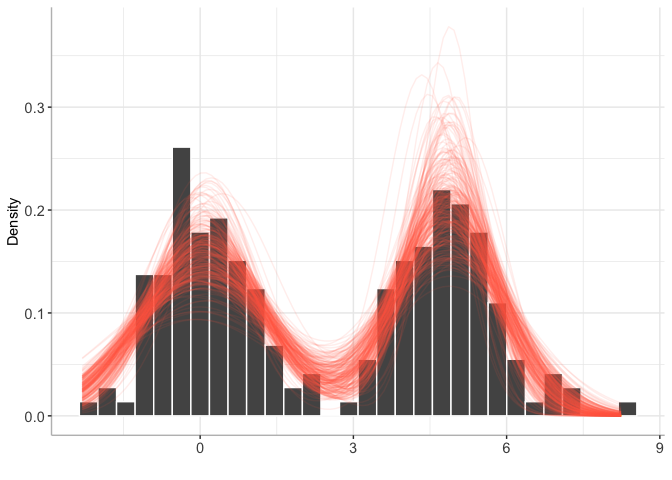
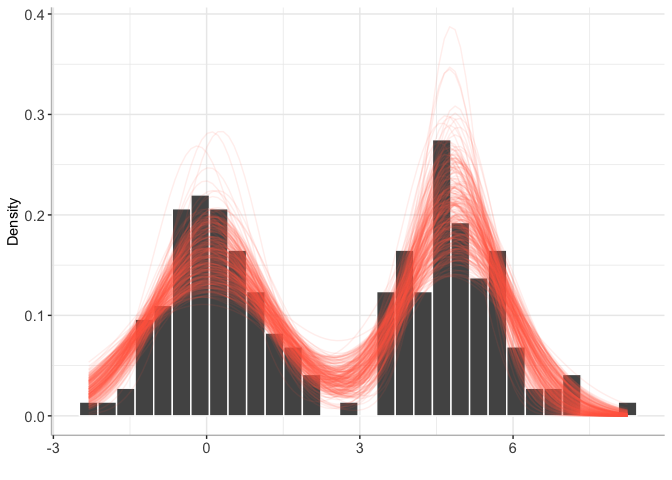
updated readme

diff --git a/README.md b/README.md
@@ -29,7 +29,7 @@ install.packages("BayesMultiMode")
 ### Or installing the development version from GitHub
 
 ``` r
-# install.packages("devtools") # if devtools is not installed 
+# install.packages("devtools") # if devtools is not installed
 devtools::install_github("paullabonne/BayesMultiMode")
 ```
 
@@ -43,9 +43,9 @@ library(BayesMultiMode)
 
 `BayesMultiMode` provides a very flexible and efficient MCMC estimation
 approach : it handles mixtures with unknown number of components through
-the sparse finite mixture approach of Malsiner-Walli,
-Fruhwirth-Schnatter, and Grun (2016) and supports a comprehensive range
-of mixture distributions, both continuous and discrete.
+the sparse finite mixture approach of Malsiner-Walli et al. (2016) and
+supports a comprehensive range of mixture distributions, both continuous
+and discrete.
 
 #### Estimation
 
@@ -53,55 +53,59 @@ of mixture distributions, both continuous and discrete.
 set.seed(123)
 
 # retrieve galaxy data
-y = galaxy
+y <- galaxy
 
 # estimation
-bayesmix = bayes_fit(data = y,
-                     K = 10,
-                     dist = "normal",
-                     nb_iter = 2000,
-                     burnin = 1000,
-                     print = F)
+bayesmix <- bayes_fit(
+  data = y,
+  K = 10,
+  dist = "normal",
+  nb_iter = 2000,
+  burnin = 1000,
+  print = F
+)
 
 plot(bayesmix, draws = 200)
 ```
 
-<img src="man/figures/README-unnamed-chunk-5-1.png" width="70%" style="display: block; margin: auto;" />
+<img src="man/figures/README-unnamed-chunk-5-1.png" alt="" width="70%" style="display: block; margin: auto;" />
 
 #### Mode inference
 
 ``` r
 # mode estimation
-bayesmode = bayes_mode(bayesmix)
+bayesmode <- bayes_mode(bayesmix)
 
 plot(bayesmode)
 ```
 
-<img src="man/figures/README-unnamed-chunk-6-1.png" width="70%" style="display: block; margin: auto;" />
+<img src="man/figures/README-unnamed-chunk-6-1.png" alt="" width="70%" style="display: block; margin: auto;" />
 
 ``` r
 summary(bayesmode)
 ```
 
-    ## Posterior probability of multimodality is 0.993 
+    ## The posterior probability of multimodality is 0.988 
+    ## 
+    ##  The most likely number of modes is 3 
     ## 
     ## Inference results on the number of modes:
     ##   p_nb_modes (matrix, dim 4x2): 
     ##      number of modes posterior probability
-    ## [1,]               1                 0.007
-    ## [2,]               2                 0.133
-    ## [3,]               3                 0.840
-    ## [4,]               4                 0.020
+    ## [1,]               1                 0.012
+    ## [2,]               2                 0.149
+    ## [3,]               3                 0.818
+    ## [4,]               4                 0.021
     ## 
     ## Inference results on mode locations:
     ##   p_loc (matrix, dim 252x2): 
     ##      mode location posterior probability
-    ## [1,]           9.2                 0.021
+    ## [1,]           9.2                 0.028
     ## [2,]           9.3                 0.000
     ## [3,]           9.4                 0.000
-    ## [4,]           9.5                 0.083
-    ## [5,]           9.6                 0.132
-    ## [6,]           9.7                 0.117
+    ## [4,]           9.5                 0.089
+    ## [5,]           9.6                 0.114
+    ## [6,]           9.7                 0.108
     ## ... (246 more rows)
 
 ### BayesMultiMode for mode inference with external MCMC output
@@ -118,52 +122,61 @@ examples can be found
 library(BNPmix)
 library(dplyr)
 
-y = cyclone %>%
-  filter(BASIN == "SI",
-         SEASON > "1981") %>%
+y <- cyclone %>%
+  filter(
+    BASIN == "SI",
+    SEASON > "1981"
+  ) %>%
   dplyr::select(max_wind) %>%
   unlist()
 
 ## estimation
-PY_result = PYdensity(y,
-                      mcmc = list(niter = 2000,
-                                  nburn = 1000,
-                                  print_message = FALSE),
-                      output = list(out_param = TRUE))
+PY_result <- PYdensity(y,
+  mcmc = list(
+    niter = 2000,
+    nburn = 1000,
+    print_message = FALSE
+  ),
+  output = list(out_param = TRUE)
+)
 ```
 
 #### Transforming the output into a mcmc matrix with one column per variable
 
 ``` r
-mcmc_py = list()
+mcmc_py <- list()
 
 for (i in 1:length(PY_result$p)) {
-  k = length(PY_result$p[[i]][, 1])
-  
-  draw = c(PY_result$p[[i]][, 1],
-           PY_result$mean[[i]][, 1],
-           sqrt(PY_result$sigma2[[i]][, 1]),
-           i)
-  
-  names(draw)[1:k] = paste0("eta", 1:k)
-  names(draw)[(k+1):(2*k)] = paste0("mu", 1:k)
-  names(draw)[(2*k+1):(3*k)] = paste0("sigma", 1:k)
-  names(draw)[3*k + 1] = "draw"
-  
-  mcmc_py[[i]] = draw
+  k <- length(PY_result$p[[i]][, 1])
+
+  draw <- c(
+    PY_result$p[[i]][, 1],
+    PY_result$mean[[i]][, 1],
+    sqrt(PY_result$sigma2[[i]][, 1]),
+    i
+  )
+
+  names(draw)[1:k] <- paste0("eta", 1:k)
+  names(draw)[(k + 1):(2 * k)] <- paste0("mu", 1:k)
+  names(draw)[(2 * k + 1):(3 * k)] <- paste0("sigma", 1:k)
+  names(draw)[3 * k + 1] <- "draw"
+
+  mcmc_py[[i]] <- draw
 }
 
-mcmc_py = as.matrix(bind_rows(mcmc_py))
+mcmc_py <- as.matrix(bind_rows(mcmc_py))
 ```
 
 #### Creating an object of class `bayes_mixture`
 
 ``` r
-py_BayesMix = bayes_mixture(mcmc = mcmc_py,
-                            data = y,
-                            burnin = 0, # the burnin has already been discarded
-                            dist = "normal",
-                            vars_to_keep = c("eta", "mu", "sigma"))
+py_BayesMix <- bayes_mixture(
+  mcmc = mcmc_py,
+  data = y,
+  burnin = 0, # the burnin has already been discarded
+  dist = "normal",
+  vars_to_keep = c("eta", "mu", "sigma")
+)
 ```
 
 #### Plotting the mixture
@@ -172,43 +185,45 @@ py_BayesMix = bayes_mixture(mcmc = mcmc_py,
 plot(py_BayesMix)
 ```
 
-<img src="man/figures/README-unnamed-chunk-10-1.png" width="70%" style="display: block; margin: auto;" />
+<img src="man/figures/README-unnamed-chunk-10-1.png" alt="" width="70%" style="display: block; margin: auto;" />
 
 #### Mode inference
 
 ``` r
 # mode estimation
-bayesmode = bayes_mode(py_BayesMix)
+bayesmode <- bayes_mode(py_BayesMix)
 
 # plot
 plot(bayesmode)
 ```
 
-<img src="man/figures/README-unnamed-chunk-11-1.png" width="70%" style="display: block; margin: auto;" />
+<img src="man/figures/README-unnamed-chunk-11-1.png" alt="" width="70%" style="display: block; margin: auto;" />
 
 ``` r
-# Summary 
+# Summary
 summary(bayesmode)
 ```
 
-    ## Posterior probability of multimodality is 1 
+    ## The posterior probability of multimodality is 1 
+    ## 
+    ##  The most likely number of modes is 2 
     ## 
     ## Inference results on the number of modes:
     ##   p_nb_modes (matrix, dim 2x2): 
     ##      number of modes posterior probability
-    ## [1,]               2                 0.897
-    ## [2,]               3                 0.103
+    ## [1,]               2                 0.889
+    ## [2,]               3                 0.111
     ## 
     ## Inference results on mode locations:
-    ##   p_loc (matrix, dim 793x2): 
+    ##   p_loc (matrix, dim 787x2): 
     ##      mode location posterior probability
-    ## [1,]          40.2                 0.001
-    ## [2,]          40.3                 0.000
-    ## [3,]          40.4                 0.000
-    ## [4,]          40.5                 0.001
-    ## [5,]          40.6                 0.000
-    ## [6,]          40.7                 0.000
-    ## ... (787 more rows)
+    ## [1,]          40.6                 0.001
+    ## [2,]          40.7                 0.000
+    ## [3,]          40.8                 0.000
+    ## [4,]          40.9                 0.002
+    ## [5,]          41.0                 0.000
+    ## [6,]          41.1                 0.001
+    ## ... (781 more rows)
 
 ### BayesMultiMode for mode estimation in mixtures estimated with ML
 
@@ -221,25 +236,34 @@ example using the popular package `mclust`. More examples can be found
 set.seed(123)
 library(mclust)
 
-y = cyclone %>%
-  filter(BASIN == "SI",
-         SEASON > "1981") %>%
+y <- cyclone %>%
+  filter(
+    BASIN == "SI",
+    SEASON > "1981"
+  ) %>%
   dplyr::select(max_wind) %>%
   unlist()
 
-fit = Mclust(y)
+fit <- Mclust(y)
+```
 
-pars = c(eta = fit$parameters$pro,
-         mu = fit$parameters$mean,
-         sigma = sqrt(fit$parameters$variance$sigmasq))
+    ## fitting ...
+    ##   |                                                                              |                                                                      |   0%  |                                                                              |====                                                                  |   5%  |                                                                              |=======                                                               |  11%  |                                                                              |===========                                                           |  16%  |                                                                              |===============                                                       |  21%  |                                                                              |==================                                                    |  26%  |                                                                              |======================                                                |  32%  |                                                                              |==========================                                            |  37%  |                                                                              |=============================                                         |  42%  |                                                                              |=================================                                     |  47%  |                                                                              |=====================================                                 |  53%  |                                                                              |=========================================                             |  58%  |                                                                              |============================================                          |  63%  |                                                                              |================================================                      |  68%  |                                                                              |====================================================                  |  74%  |                                                                              |=======================================================               |  79%  |                                                                              |===========================================================           |  84%  |                                                                              |===============================================================       |  89%  |                                                                              |==================================================================    |  95%  |                                                                              |======================================================================| 100%
 
-mix = mixture(pars, dist = "normal", range = c(min(y), max(y))) # create new object of class Mixture
-modes = mix_mode(mix) # estimate modes
+``` r
+pars <- c(
+  eta = fit$parameters$pro,
+  mu = fit$parameters$mean,
+  sigma = sqrt(fit$parameters$variance$sigmasq)
+)
+
+mix <- mixture(pars, dist = "normal", range = c(min(y), max(y))) # create new object of class Mixture
+modes <- mix_mode(mix) # estimate modes
 
 plot(modes)
 ```
 
-<img src="man/figures/README-unnamed-chunk-12-1.png" width="50%" style="display: block; margin: auto;" />
+<img src="man/figures/README-unnamed-chunk-12-1.png" alt="" width="50%" style="display: block; margin: auto;" />
 
 ``` r
 summary(modes)
@@ -279,7 +303,8 @@ Economics and Finance.” *Economics Letters* 235 (February): 111579.
 Knapp, Kenneth R., Howard J. Diamond, Kossin J. P., Michael C. Kruk, and
 C. J. Schreck. 2018. “International Best Track Archive for Climate
 Stewardship (IBTrACS) Project, Version 4.” *NOAA National Centers for
-Environmental Information*. <https://doi.org/10.1175/2009BAMS2755.1>.
+Environmental Information*, ahead of print.
+<https://doi.org/10.1175/2009BAMS2755.1>.
 
 </div>
 

diff --git a/NEWS.md b/NEWS.md
@@ -1,6 +1,8 @@
-## Version 0.7.4
+## Version 0.7.5
 * Fixed issue with cross-platform reproducibility.
 
+## Version 0.7.4
+* Updated following following ggplot new version.
 
 ## Version 0.7.2
 * Added conditional_nb_modes argument to bayes_mode()
